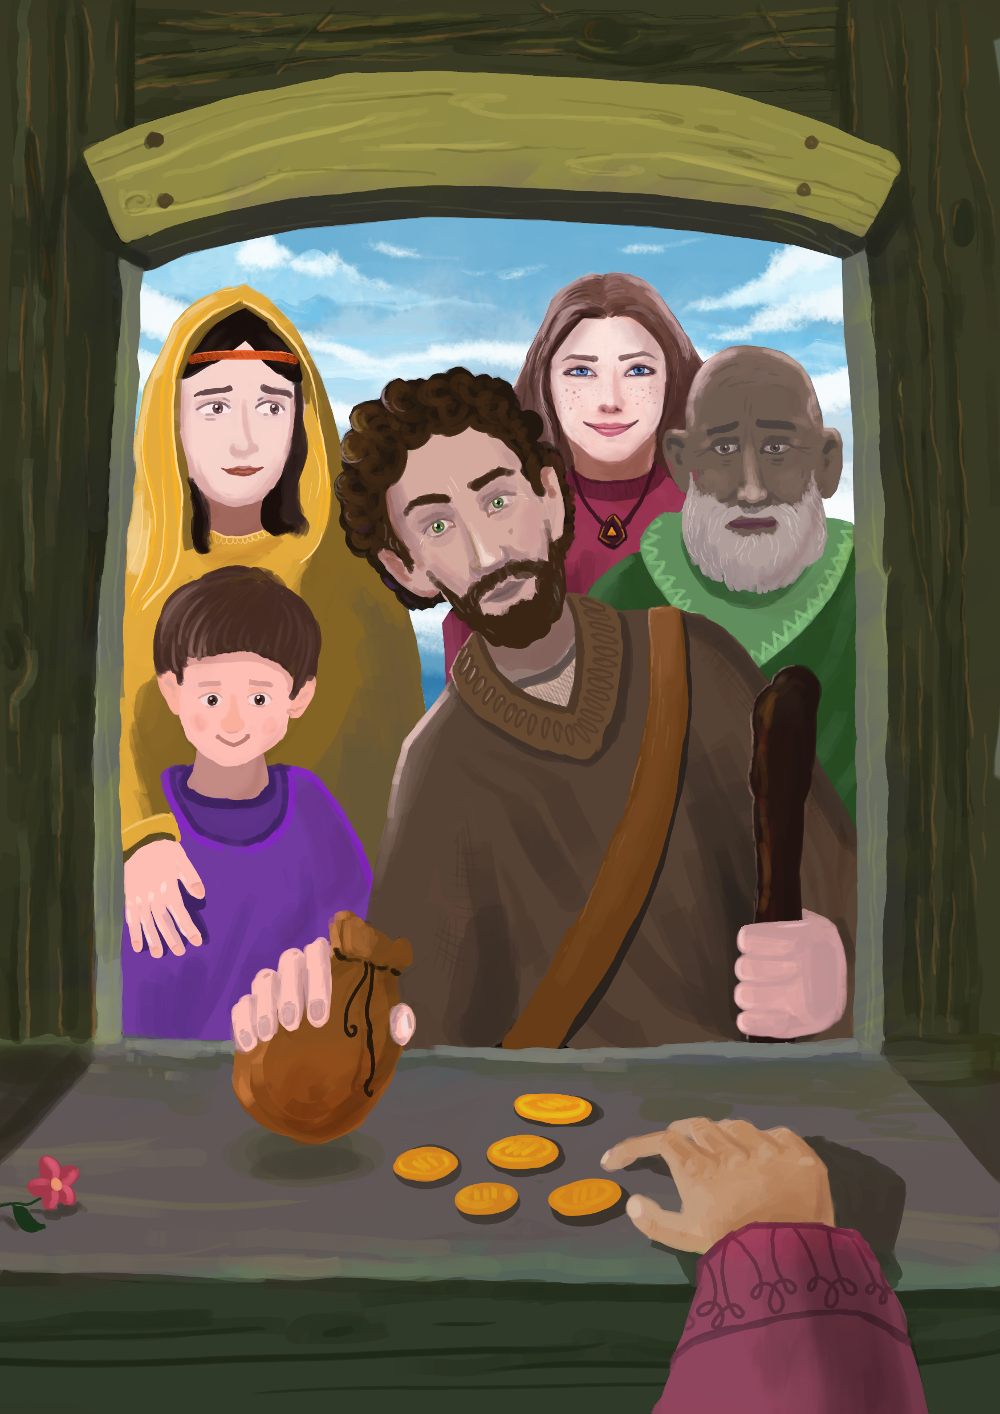
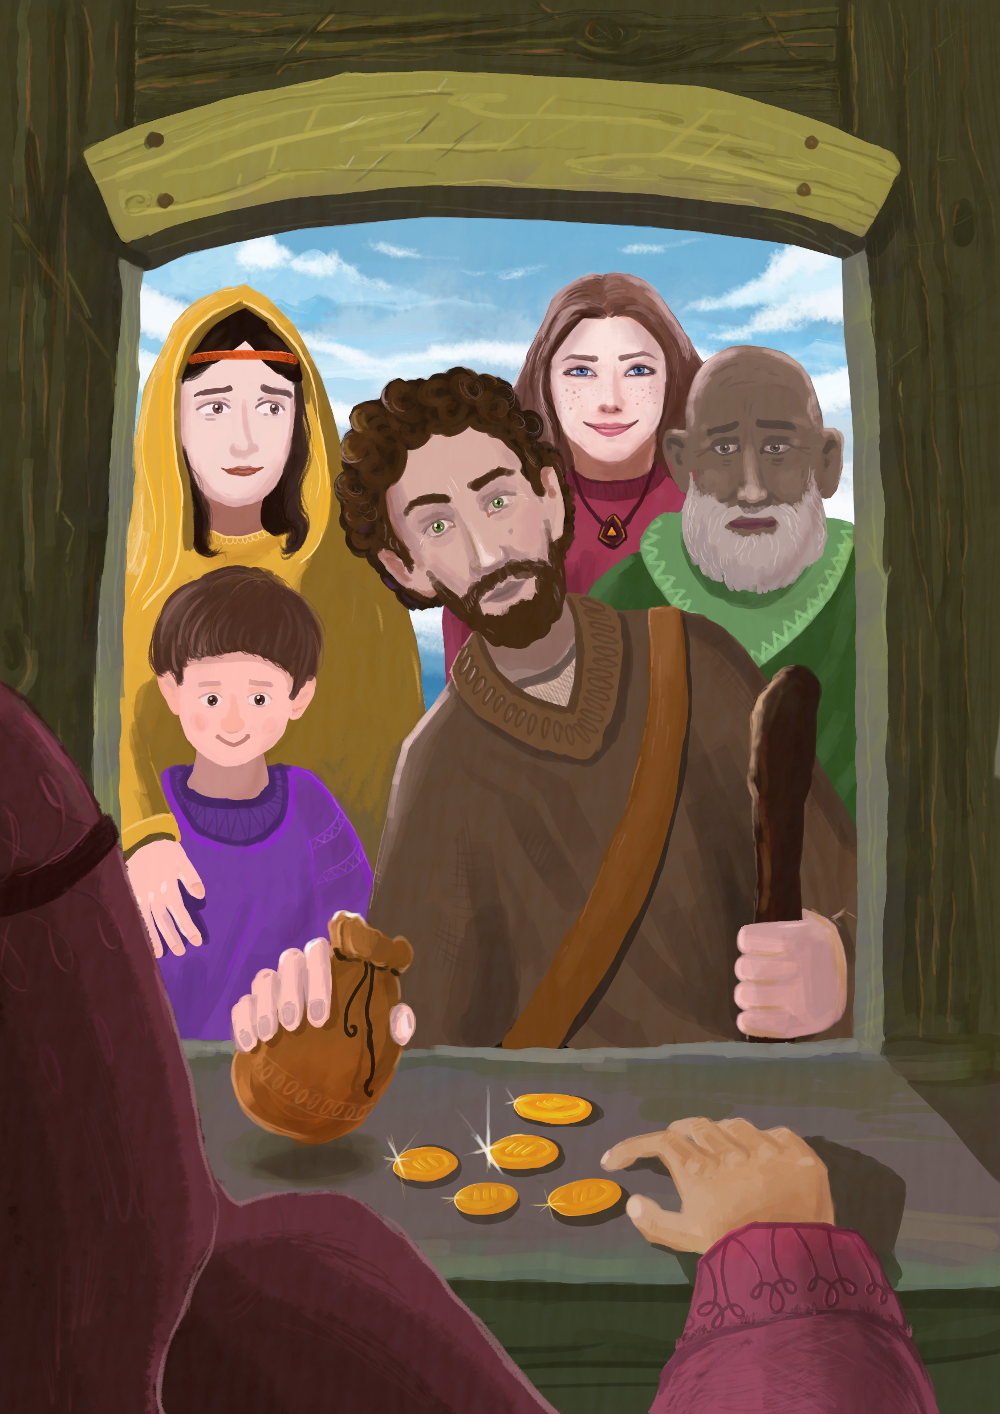
Update 05.

diff --git a/script.js b/script.js
@@ -4,7 +4,7 @@ angular.module('galleryApp', [])
     gallery.language = "ro";
     gallery.work_start_date = new Date(2016,05,20);
 
-    gallery.worked_hours = 123;  // EDIT HERE
+    gallery.worked_hours = 124;  // EDIT HERE
 
     gallery.get_global_progress = function() {
       var index;
@@ -161,7 +161,7 @@ angular.module('galleryApp', [])
       {
         id: 5,
         img: '05.png',
-        done: 95,
+        done: 100,
         text: {
           ro: "1:3C. A plătit preţul călătoriei şi s-a suit în corabie ca să meargă împreună cu călătorii la Tars, departe de faţa Domnului.",
           en: "1:3C. so he paid the fare thereof, and went down into it, to go with them unto Tarshish from the presence of the LORD."
